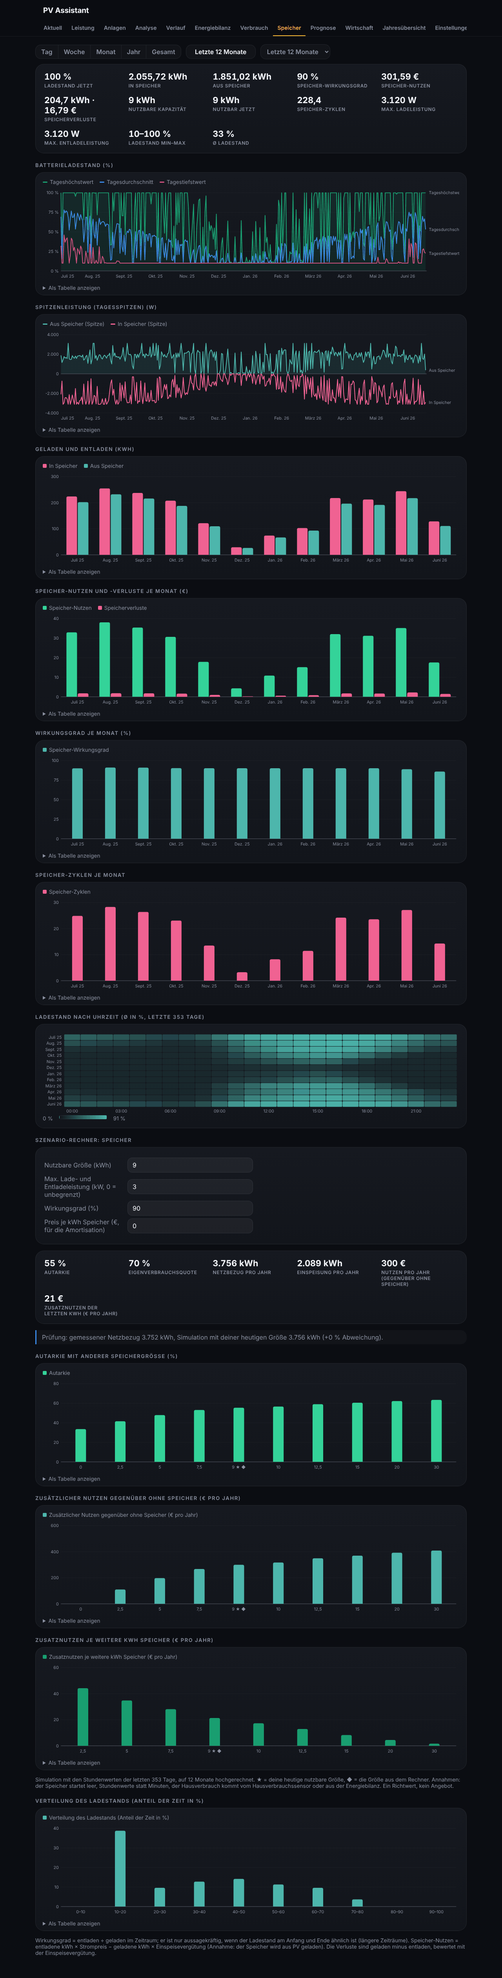
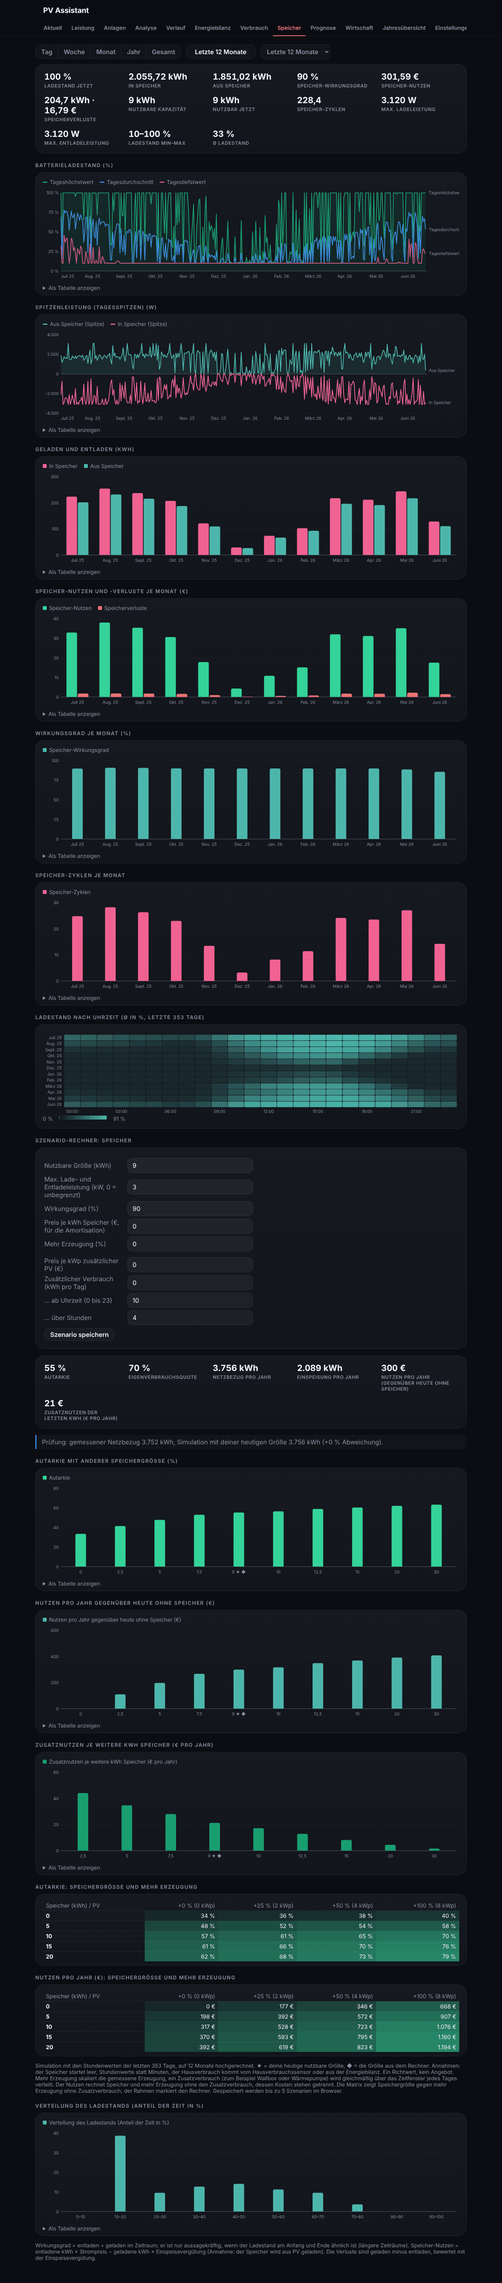
Extend the storage scenario calculator: more production, extra load, matrix and saved scenarios
Claude-Session: https://claude.ai/code/session_01TaJYM5KB2UjSXtUd6GEyfY

diff --git a/custom_components/pv_assistant/frontend/pv-assistant-tab-storage.js b/custom_components/pv_assistant/frontend/pv-assistant-tab-storage.js
@@ -7,6 +7,12 @@ export function init(ctx) {
   ({ esc, mergedRows, lineChart, barChart, categoryBarChart, localKeyFn, heatmap, simulateStorage } = ctx);
 }
 
+// the fields of the scenario calculator: [input id, key in the state]
+const SIM_FIELDS = [["simcap", "cap"], ["simpow", "power"], ["simeff", "eff"], ["simprice", "price"], ["simpv", "pv"], ["simpvprice", "pvprice"],
+  ["simload", "load"], ["simfrom", "from"], ["simlen", "len"]];
+const SIM_DEFAULTS = { pv: 0, pvprice: 0, load: 0, from: 10, len: 4 };
+const MAX_SAVED = 5;
+
 export class StoragePart {
   _buildStorage() {
     const { P, E, G } = this._keys();
@@ -24,26 +30,37 @@ export class StoragePart {
       <div id="socycbox"><h3 class="ch">${esc(this._t("stoCycChart"))}</h3><div class="chart" id="socyc"></div></div>` : ""}${G.soc.length ? `
       <div id="soheatbox"><h3 class="ch" id="soheath">${esc(this._t("stoHeat"))}</h3><div class="chart" id="soheat"></div></div>` : ""}${has(E) && E.prod.length ? `
       <div id="sosimbox"><h3 class="ch">${esc(this._t("simTitle"))}</h3>
-      <div class="setcard" id="simform"><div class="setrow"><label for="simcap">${esc(this._t("simCap"))}</label><input type="number" id="simcap" min="0" step="0.5"></div>
+      <div class="setcard" id="simform">
+        <div class="setrow"><label for="simcap">${esc(this._t("simCap"))}</label><input type="number" id="simcap" min="0" step="0.5"></div>
         <div class="setrow"><label for="simpow">${esc(this._t("simPower"))}</label><input type="number" id="simpow" min="0" step="0.5"></div>
         <div class="setrow"><label for="simeff">${esc(this._t("simEff"))}</label><input type="number" id="simeff" min="50" max="100" step="1"></div>
-        <div class="setrow"><label for="simprice">${esc(this._t("simPrice"))}</label><input type="number" id="simprice" min="0" step="10"></div></div>
+        <div class="setrow"><label for="simprice">${esc(this._t("simPrice"))}</label><input type="number" id="simprice" min="0" step="10"></div>
+        <div class="setrow"><label for="simpv">${esc(this._t("simPv"))}</label><input type="number" id="simpv" min="0" step="5"><span class="hint" id="simpvhint"></span></div>
+        <div class="setrow"><label for="simpvprice">${esc(this._t("simPvPrice"))}</label><input type="number" id="simpvprice" min="0" step="50"></div>
+        <div class="setrow"><label for="simload">${esc(this._t("simLoad"))}</label><input type="number" id="simload" min="0" step="1"></div>
+        <div class="setrow"><label for="simfrom">${esc(this._t("simFrom"))}</label><input type="number" id="simfrom" min="0" max="23" step="1"></div>
+        <div class="setrow"><label for="simlen">${esc(this._t("simLen"))}</label><input type="number" id="simlen" min="1" max="24" step="1"></div>
+        <div class="setbar"><button class="setbtn" id="simsave">${esc(this._t("simSave"))}</button></div></div>
       <div class="tiles" id="simtiles"></div><ul class="hints" id="simhints"></ul>
       <h3 class="ch">${esc(this._t("stoSimAut"))}</h3><div class="chart" id="sosimaut"></div>
       <div id="sosimbenbox"><h3 class="ch">${esc(this._t("stoSimBen"))}</h3><div class="chart" id="sosimben"></div>
       <h3 class="ch">${esc(this._t("stoSimMarg"))}</h3><div class="chart" id="sosimmarg"></div></div>
+      <h3 class="ch">${esc(this._t("simMatrixAut"))}</h3><div class="chart" id="simmat1"></div>
+      <div id="simmat2box"><h3 class="ch">${esc(this._t("simMatrixBen"))}</h3><div class="chart" id="simmat2"></div></div>
+      <div id="simsavedbox"><h3 class="ch">${esc(this._t("simSaved"))}</h3><div class="chart" id="simsaved"></div></div>
       <p class="note" id="sosimnote"></p></div>` : ""}${G.soc.length ? `
       <h3 class="ch">${esc(this._t("stoSocHist"))}</h3><div class="chart" id="sosochist"></div>` : ""}
       <p class="note" id="sonote"></p>`;
     const ranges = box.querySelector("#sranges");
     this._picker(ranges, () => this._srange, (v) => { this._srange = v; this._loadStorage(); });
-    for (const id of ["simcap", "simpow", "simeff", "simprice"]) {
+    for (const [id] of SIM_FIELDS) {
       box.querySelector(`#${id}`)?.addEventListener("input", () => {
-        this._simState = { cap: this._simNum("simcap"), power: this._simNum("simpow"), eff: this._simNum("simeff"), price: this._simNum("simprice") };
+        this._simState = Object.fromEntries(SIM_FIELDS.map(([fid, key]) => [key, this._simNum(fid)]));
         try { localStorage.setItem("pv_assistant_sim", JSON.stringify(this._simState)); } catch (e) { /* storage unavailable */ }
         this._drawStorageSim();
       });
     }
+    box.querySelector("#simsave")?.addEventListener("click", () => this._simSave());
   }
 
   async _loadStorage() {
@@ -142,22 +159,27 @@ export class StoragePart {
     const cap = gen.storage_capacity_kwh > 0 ? gen.storage_capacity_kwh : 0, minSoc = gen.battery_min_soc > 0 ? Math.min(gen.battery_min_soc, 100) : 0;
     const tIn = [...sIn.values()].reduce((a, v) => a + v, 0), tOut = [...sOut.values()].reduce((a, v) => a + v, 0);
     const numOf = (id) => { const v = parseFloat(this._hass.states[id]?.state); return Number.isNaN(v) ? null : v; };
+    const strs = this._cfg.settings?.strings || {};
+    const { P } = this._keys();
+    const peakWp = P.prod.reduce((a, id) => a + (strs[id]?.peak > 0 ? strs[id].peak : 0), 0);
     this._ssim = {
-      hours, nDays, usableNow: cap * (1 - minSoc / 100),
+      hours, hod: keys.map((ts) => key(ts).hour), nDays, usableNow: cap * (1 - minSoc / 100),
       effMeasured: tIn > 20 && tOut > 0 ? Math.min(0.98, Math.max(0.7, tOut / tIn)) : 0.9,
       // the hourly maxima are the limits that fit a model that works on whole hours
       powerMeasured: Math.ceil(Math.max(0, ...sIn.values(), ...sOut.values()) * 10) / 10,
       measuredImp: G.impE.length ? [...imp.values()].reduce((a, v) => a + v, 0) : null,
       pImp: (G.priceImp && numOf(G.priceImp)) || gen.price_import || null, pFeed: (G.priceFeed && numOf(G.priceFeed)) || gen.price_feed_in || null,
+      peakKwp: peakWp / 1000,
     };
     if (!this._simState) {
       let saved = null;
       try { saved = JSON.parse(localStorage.getItem("pv_assistant_sim") || "null"); } catch (e) { saved = null; }
       const c = this._ssim;
-      this._simState = saved && Number.isFinite(saved.cap) ? saved : { cap: Math.round((c.usableNow || 10) * 10) / 10, power: c.powerMeasured, eff: Math.round(c.effMeasured * 100), price: 0 };
-      for (const [id, v] of [["simcap", this._simState.cap], ["simpow", this._simState.power], ["simeff", this._simState.eff], ["simprice", this._simState.price]]) {
+      const fresh = { cap: Math.round((c.usableNow || 10) * 10) / 10, power: c.powerMeasured, eff: Math.round(c.effMeasured * 100), price: 0 };
+      this._simState = { ...SIM_DEFAULTS, ...(saved && Number.isFinite(saved.cap) ? saved : fresh) };
+      for (const [id, key2] of SIM_FIELDS) {
         const input = root.getElementById(id);
-        if (input) input.value = Number.isFinite(v) ? String(v) : "";
+        if (input) input.value = Number.isFinite(this._simState[key2]) ? String(this._simState[key2]) : "";
       }
     }
     this._drawStorageSim();
@@ -168,33 +190,67 @@ export class StoragePart {
     return Number.isFinite(v) && v >= 0 ? v : 0;
   }
 
-  // results of the scenario with the values of the form: key figures, check against the measurement and the charts over the size
+  // the key figures of a scenario: more production, an extra load on top of the house consumption and a storage, on the hours of the range
+  _simMetrics(st) {
+    const c = this._ssim;
+    const { hours, hod, nDays, pImp, pFeed, peakKwp } = c;
+    const eff = Math.min(1, Math.max(0.5, (st.eff || 90) / 100)), power = st.power || 0;
+    const scale = nDays < 330 ? 365 / nDays : 1;
+    const pvF = 1 + (st.pv || 0) / 100;
+    const len = Math.min(24, Math.max(1, Math.round(st.len || 1))), from = Math.min(23, Math.max(0, Math.round(st.from || 0)));
+    const perHour = st.load > 0 ? st.load / len : 0;
+    const inWindow = (h) => ((h - from + 24) % 24) < len;
+    const build = (withExtra) => hours.map(([p, h], i) => [p * pvF, h + (withExtra && inWindow(hod[i]) ? perHour : 0)]);
+    const base = simulateStorage(hours, 0, eff, power); // today's plant without a storage: the reference
+    const noExtra = simulateStorage(build(false), st.cap, eff, power);
+    const withExtraHours = build(true);
+    const run = perHour > 0 ? simulateStorage(withExtraHours, st.cap, eff, power) : noExtra;
+    const load = withExtraHours.reduce((a, [, h]) => a + h, 0), produced = withExtraHours.reduce((a, [p]) => a + p, 0);
+    const extraTotal = perHour > 0 ? withExtraHours.reduce((a, [, h], i) => a + (h - hours[i][1]), 0) : 0;
+    const money = (r) => (pImp ? ((base.imp - r.imp) * pImp - (base.feed - r.feed) * (pFeed || 0)) * scale : null);
+    const investment = (st.price > 0 ? st.price * st.cap : 0) + (st.pvprice > 0 && peakKwp > 0 ? st.pvprice * peakKwp * (st.pv || 0) / 100 : 0);
+    const benefit = money(noExtra); // storage and more production, without the extra load
+    return {
+      autarky: load > 0 ? (1 - run.imp / load) * 100 : 0, self: produced > 0 ? ((produced - run.feed) / produced) * 100 : 0,
+      imp: run.imp * scale, feed: run.feed * scale, benefit, investment, payback: investment > 0 && benefit > 0 ? investment / benefit : null,
+      extraYear: extraTotal * scale,
+      extraPv: extraTotal > 0 ? Math.max(0, 1 - (run.imp - noExtra.imp) / extraTotal) * 100 : null,
+      extraCost: extraTotal > 0 && pImp ? ((run.imp - noExtra.imp) * pImp + (noExtra.feed - run.feed) * (pFeed || 0)) * scale : null,
+    };
+  }
+
+  _simSave() {
+    const st = this._simState;
+    if (!st || !this._ssim) return;
+    let saved = [];
+    try { saved = JSON.parse(localStorage.getItem("pv_assistant_sim_saved") || "[]"); } catch (e) { saved = []; }
+    saved = [...saved.filter((x) => JSON.stringify(x.st) !== JSON.stringify(st)), { st: { ...st } }].slice(-MAX_SAVED);
+    try { localStorage.setItem("pv_assistant_sim_saved", JSON.stringify(saved)); } catch (e) { /* storage unavailable */ }
+    this._drawStorageSim();
+  }
+
+  // results of the scenario with the values of the form: key figures, check against the measurement, the matrix, the saved scenarios
+  // and the charts over the size
   _drawStorageSim() {
     const c = this._ssim, root = this._root;
     if (!c || !root.getElementById("sosimbox")) return;
-    const st = this._simState || { cap: 0, power: 0, eff: 90, price: 0 };
+    const st = this._simState || { ...SIM_DEFAULTS, cap: 0, power: 0, eff: 90, price: 0 };
     const lang = this._hass.locale?.language || this._hass.language;
     const num = (v, dec = 1) => v.toLocaleString(lang, { maximumFractionDigits: dec });
     const tl = { summary: this._t("table"), time: "kWh" };
-    const { hours, nDays, usableNow, pImp, pFeed } = c;
-    const eff = Math.min(1, Math.max(0.5, (st.eff || 90) / 100)), power = st.power || 0;
-    const scale = nDays < 330 ? 365 / nDays : 1;
-    const load = hours.reduce((a, [, h]) => a + h, 0), produced = hours.reduce((a, [p]) => a + p, 0);
-    const run = (size) => simulateStorage(hours, size, eff, power);
-    const base = run(0);
-    const benefit = (r) => (pImp ? ((base.imp - r.imp) * pImp - (base.feed - r.feed) * (pFeed || 0)) * scale : null);
-    const sc = run(st.cap);
-    const tiles = [
-      [`${num(load > 0 ? (1 - sc.imp / load) * 100 : 0, 0)} %`, this._t("autarky")],
-      [`${num(produced > 0 ? ((produced - sc.feed) / produced) * 100 : 0, 0)} %`, this._t("selfShare")],
-      [`${num(sc.imp * scale, 0)} kWh`, this._t("simImp")], [`${num(sc.feed * scale, 0)} kWh`, this._t("simFeed")],
-    ];
-    const ben = benefit(sc);
-    if (ben != null) tiles.push([`${num(ben, 0)} €`, this._t("simBen")]);
-    if (ben != null && st.cap > 1) tiles.push([`${num(ben - benefit(run(st.cap - 1)), 0)} €`, this._t("simMarg")]);
-    if (st.price > 0 && st.cap > 0) {
-      tiles.push([`${num(st.price * st.cap, 0)} €`, this._t("simInvest")]);
-      tiles.push([ben > 0 ? this._t("simYears").replace("{y}", num((st.price * st.cap) / ben, 1)) : "–", this._t("simPayback")]);
+    const { hours, nDays, usableNow, pImp, peakKwp } = c;
+    const m = this._simMetrics(st);
+    const years = (v) => (v == null ? "–" : this._t("simYears").replace("{y}", num(v, 1)));
+    const hint = root.getElementById("simpvhint");
+    if (hint) hint.textContent = peakKwp > 0 && st.pv > 0 ? this._t("simPvKwp").replace("{k}", num((peakKwp * st.pv) / 100, 1)).replace("{p}", num(peakKwp, 1)) : "";
+    const tiles = [[`${num(m.autarky, 0)} %`, this._t("autarky")], [`${num(m.self, 0)} %`, this._t("selfShare")],
+      [`${num(m.imp, 0)} kWh`, this._t("simImp")], [`${num(m.feed, 0)} kWh`, this._t("simFeed")]];
+    if (m.benefit != null) tiles.push([`${num(m.benefit, 0)} €`, this._t("simBen")]);
+    if (m.benefit != null && st.cap > 1) tiles.push([`${num(m.benefit - this._simMetrics({ ...st, cap: st.cap - 1, load: 0 }).benefit, 0)} €`, this._t("simMarg")]);
+    if (m.investment > 0) tiles.push([`${num(m.investment, 0)} €`, this._t("simInvest")], [years(m.payback), this._t("simPayback")]);
+    if (m.extraYear > 0) {
+      tiles.push([`${num(m.extraYear, 0)} kWh`, this._t("simExtraYear")], [`${num(m.extraPv, 0)} %`, this._t("simExtraPv")]);
+      if (m.extraCost != null) tiles.push([`${num(m.extraCost, 0)} €`, this._t("simExtraCost")], [`${num(m.extraCost / m.extraYear, 3)} €`, this._t("simExtraKwh")]);
     }
     root.getElementById("simtiles").innerHTML = tiles.map(([v, l]) => `<div class="tile"><b>${esc(v)}</b><span>${esc(l)}</span></div>`).join("");
     // check: the same model with the real storage against the measured grid import
@@ -205,20 +261,21 @@ export class StoragePart {
       hints.push(this._t("simCalib").replace("{m}", num(c.measuredImp, 0)).replace("{s}", num(real.imp, 0)).replace("{d}", `${dev > 0 ? "+" : ""}${num(dev, 0)}`) + (Math.abs(dev) > 15 ? ` ${this._t("simCalibWarn")}` : ""));
     }
     root.getElementById("simhints").innerHTML = hints.map((h) => `<li class="info">${esc(h)}</li>`).join("");
-    // over the size: the usual steps plus the real and the scenario size
+    // over the size: the usual steps plus the real and the scenario size (more production and the extra load come along)
     const steps = [0, 2.5, 5, 7.5, 10, 12.5, 15, 20, 30];
     const real = usableNow > 0 ? Math.round(usableNow * 10) / 10 : null, mine = st.cap > 0 ? Math.round(st.cap * 10) / 10 : null;
     const sizes = [...new Set([...steps, ...(real ? [real] : []), ...(mine ? [mine] : [])])].filter((v) => v <= Math.max(30, (real || 0) * 2, (mine || 0) * 1.5)).sort((a, b) => a - b);
-    const results = sizes.map((v) => run(v));
+    const at = (size, extra = {}) => this._simMetrics({ ...st, cap: size, ...extra });
+    const results = sizes.map((v) => at(v));
     const cats = sizes.map((v) => `${num(v, 1)}${v === real ? " ★" : ""}${v === mine ? " ◆" : ""}`);
     categoryBarChart(root.getElementById("sosimaut"), {
-      categories: cats, series: [{ name: this._t("autarky"), color: "--pva-pos", values: results.map((r) => (load > 0 ? (1 - r.imp / load) * 100 : null)) }],
+      categories: cats, series: [{ name: this._t("autarky"), color: "--pva-pos", values: results.map((r) => r.autarky) }],
       fmtValue: (v, axis) => `${num(v, 0)}${axis ? "" : " %"}`, empty: this._t("noData"), tableLabels: tl, label: this._t("stoSimAut"),
     });
     const benBox = root.getElementById("sosimbenbox");
     benBox.hidden = !pImp;
     if (pImp) {
-      const bens = results.map(benefit);
+      const bens = results.map((r) => r.benefit);
       categoryBarChart(root.getElementById("sosimben"), {
         categories: cats, series: [{ name: this._t("stoSimBen"), color: "--pva-bout", values: bens }],
         fmtValue: (v, axis) => `${num(v, 0)}${axis ? "" : " €"}`, empty: this._t("noData"), tableLabels: tl, label: this._t("stoSimBen"),
@@ -229,7 +286,51 @@ export class StoragePart {
         fmtValue: (v, axis) => `${num(v, axis ? 0 : 1)}${axis ? "" : " €"}`, empty: this._t("noData"), tableLabels: tl, label: this._t("stoSimMarg"),
       });
     }
-    root.getElementById("sosimnote").textContent = this._t("stoSimNote").replace("{n}", String(nDays));
+    // matrix: storage size against more production (without the extra load), the cell of the calculator is framed
+    const rowsKwh = [0, 5, 10, 15, 20], cols = [0, 25, 50, 100];
+    const matrix = (field, fmt) => {
+      const grid = rowsKwh.map((r) => cols.map((cpv) => at(r, { pv: cpv, load: 0 })[field]));
+      const flat = grid.flat().filter((v) => v != null), lo = Math.min(...flat), hi = Math.max(...flat);
+      const head = `<tr><th>${esc(this._t("simMatrixRows"))}</th>${cols.map((cpv) => `<th>+${cpv} %${peakKwp > 0 ? ` (${num((peakKwp * cpv) / 100, 1)} kWp)` : ""}</th>`).join("")}</tr>`;
+      const body = grid.map((row, ri) => `<tr><th>${esc(num(rowsKwh[ri], 1))}</th>${row.map((v, ci) => {
+        const level = hi > lo ? (v - lo) / (hi - lo) : 0, mark = rowsKwh[ri] === st.cap && cols[ci] === st.pv;
+        return `<td style="background:color-mix(in srgb, var(--pva-pos) ${Math.round(8 + level * 52)}%, transparent)${mark ? ";outline:2px solid var(--g-accent)" : ""}">${esc(fmt(v))}</td>`;
+      }).join("")}</tr>`).join("");
+      return `<table class="dtable"><thead>${head}</thead><tbody>${body}</tbody></table>`;
+    };
+    root.getElementById("simmat1").innerHTML = matrix("autarky", (v) => `${num(v, 0)} %`);
+    root.getElementById("simmat2box").hidden = !pImp;
+    if (pImp) root.getElementById("simmat2").innerHTML = matrix("benefit", (v) => `${num(v, 0)} €`);
+    // saved scenarios side by side
+    let saved = [];
+    try { saved = JSON.parse(localStorage.getItem("pv_assistant_sim_saved") || "[]"); } catch (e) { saved = []; }
+    const savedBox = root.getElementById("simsavedbox");
+    savedBox.hidden = !saved.length;
+    if (saved.length) {
+      const name = (x) => `${num(x.cap, 1)} kWh${x.power > 0 ? ` · ${num(x.power, 1)} kW` : ""}${x.pv > 0 ? ` · +${num(x.pv, 0)} %` : ""}${x.load > 0 ? ` · +${num(x.load, 0)} kWh/${this._t("simPerDay")}` : ""}`;
+      const head = ["simName", "autarky", "selfShare", "simImp", "simFeed", "simBen", "simInvest", "simPayback"].map((k) => `<th>${esc(this._t(k))}</th>`).join("") + "<th></th>";
+      const rows = saved.map((x, i) => {
+        const r = this._simMetrics({ ...SIM_DEFAULTS, ...x.st });
+        return `<tr><th>${esc(name({ ...SIM_DEFAULTS, ...x.st }))}</th><td>${num(r.autarky, 0)} %</td><td>${num(r.self, 0)} %</td><td>${num(r.imp, 0)}</td><td>${num(r.feed, 0)}</td>`
+          + `<td>${r.benefit == null ? "–" : `${num(r.benefit, 0)} €`}</td><td>${r.investment > 0 ? `${num(r.investment, 0)} €` : "–"}</td><td>${esc(years(r.payback))}</td>`
+          + `<td><button class="setbtn" data-load="${i}">${esc(this._t("simLoadBtn"))}</button> <button class="setbtn" data-del="${i}">${esc(this._t("simDel"))}</button></td></tr>`;
+      }).join("");
+      const holder = root.getElementById("simsaved");
+      holder.innerHTML = `<table class="dtable"><thead><tr>${head}</tr></thead><tbody>${rows}</tbody></table>`;
+      holder.querySelectorAll("button").forEach((b) => b.addEventListener("click", () => {
+        const idx = Number(b.dataset.load ?? b.dataset.del);
+        if (b.dataset.del != null) {
+          saved.splice(idx, 1);
+          try { localStorage.setItem("pv_assistant_sim_saved", JSON.stringify(saved)); } catch (e) { /* storage unavailable */ }
+        } else {
+          this._simState = { ...SIM_DEFAULTS, ...saved[idx].st };
+          for (const [id, key2] of SIM_FIELDS) { const input = root.getElementById(id); if (input) input.value = String(this._simState[key2]); }
+          try { localStorage.setItem("pv_assistant_sim", JSON.stringify(this._simState)); } catch (e) { /* storage unavailable */ }
+        }
+        this._drawStorageSim();
+      }));
+    }
+    root.getElementById("sosimnote").textContent = `${this._t("stoSimNote").replace("{n}", String(nDays))} ${this._t("simNote2")}`;
   }
 
   _drawStorage() {

diff --git a/custom_components/pv_assistant/frontend/pv-assistant-texts.js b/custom_components/pv_assistant/frontend/pv-assistant-texts.js
@@ -114,7 +114,7 @@ export const T = {
     pkLast7: "Letzte 7 Tage", pkLast30: "Letzte 30 Tage", pkLast90: "Letzte 90 Tage", pkLast12m: "Letzte 12 Monate", pkLast: "Letzte {n} Tage", pkSince: "seit",
     pkNow: "Zum aktuellen Zeitraum springen", pkDate: "Datum wählen", pkThisWeek: "Diese Woche", pkThisMonth: "Dieser Monat", pkThisYear: "Dieses Jahr",
     stoHeat: "Ladestand nach Uhrzeit (Ø in %)", stoHeatDays: "Ladestand nach Uhrzeit (Ø in %, letzte {n} Tage)", stoCycChart: "Speicher-Zyklen je Monat",
-    stoSimAut: "Autarkie mit anderer Speichergröße (%)", stoSimBen: "Zusätzlicher Nutzen gegenüber ohne Speicher (€ pro Jahr)",
+    stoSimAut: "Autarkie mit anderer Speichergröße (%)", stoSimBen: "Nutzen pro Jahr gegenüber heute ohne Speicher (€)",
     stoSimNote: "Simulation mit den Stundenwerten der letzten {n} Tage, auf 12 Monate hochgerechnet. ★ = deine heutige nutzbare Größe, ◆ = die Größe aus dem Rechner. Annahmen: der Speicher startet leer, Stundenwerte statt Minuten, der Hausverbrauch kommt vom Hausverbrauchssensor oder aus der Energiebilanz. Ein Richtwert, kein Angebot.",
     // consumption tab
     consumptionTab: "Verbrauch", conProfile: "Tagesverlauf: Werktag und Wochenende (Ø kWh je Stunde)", conHeat: "Verbrauch nach Uhrzeit (kWh je Stunde)",
@@ -133,9 +133,14 @@ export const T = {
     repMonth: "Monat", repProd: "Erzeugung (kWh)", repFeed: "Einspeisung (kWh)", repImport: "Netzbezug (kWh)", repHouse: "Verbrauch (kWh)", repStoreIn: "In Speicher (kWh)",
     repStoreOut: "Aus Speicher (kWh)", repDirect: "Direkt verbraucht (kWh)", repSelf: "Eigenverbrauchsquote (%)", repAutarky: "Autarkie (%)", repSavings: "Ersparnis", repRevenue: "Einspeiseerlös", repBenefit: "Nutzen",
     simTitle: "Szenario-Rechner: Speicher", simCap: "Nutzbare Größe (kWh)", simPower: "Max. Lade- und Entladeleistung (kW, 0 = unbegrenzt)", simEff: "Wirkungsgrad (%)", simPrice: "Preis je kWh Speicher (€, für die Amortisation)",
-    simImp: "Netzbezug pro Jahr", simFeed: "Einspeisung pro Jahr", simBen: "Nutzen pro Jahr (gegenüber ohne Speicher)", simMarg: "Zusatznutzen der letzten kWh (€ pro Jahr)", simInvest: "Investition", simPayback: "Amortisation", simYears: "{y} Jahre",
+    simImp: "Netzbezug pro Jahr", simFeed: "Einspeisung pro Jahr", simBen: "Nutzen pro Jahr (gegenüber heute ohne Speicher)", simMarg: "Zusatznutzen der letzten kWh (€ pro Jahr)", simInvest: "Investition", simPayback: "Amortisation", simYears: "{y} Jahre",
     stoSimMarg: "Zusatznutzen je weitere kWh Speicher (€ pro Jahr)",
     simCalib: "Prüfung: gemessener Netzbezug {m} kWh, Simulation mit deiner heutigen Größe {s} kWh ({d} % Abweichung).", simCalibWarn: "Die Abweichung ist größer als 15 %; die Zahlen sind dann nur grobe Richtwerte (Leistungsspitzen, Laden aus dem Netz oder ein anderes Verhalten des Speichers).",
+    simPv: "Mehr Erzeugung (%)", simPvPrice: "Preis je kWp zusätzlicher PV (€)", simLoad: "Zusätzlicher Verbrauch (kWh pro Tag)", simFrom: "… ab Uhrzeit (0 bis 23)", simLen: "… über Stunden",
+    simPvKwp: "≈ +{k} kWp bei {p} kWp heute", simSave: "Szenario speichern", simSaved: "Gespeicherte Szenarien", simName: "Szenario", simLoadBtn: "Laden", simDel: "Löschen", simPerDay: "Tag",
+    simExtraYear: "Zusatzverbrauch pro Jahr", simExtraPv: "davon aus PV und Speicher gedeckt", simExtraCost: "Kosten des Zusatzverbrauchs pro Jahr", simExtraKwh: "Kosten je kWh des Zusatzverbrauchs",
+    simMatrixAut: "Autarkie: Speichergröße und mehr Erzeugung", simMatrixBen: "Nutzen pro Jahr (€): Speichergröße und mehr Erzeugung", simMatrixRows: "Speicher (kWh) / PV",
+    simNote2: "Mehr Erzeugung skaliert die gemessene Erzeugung, ein Zusatzverbrauch (zum Beispiel Wallbox oder Wärmepumpe) wird gleichmäßig über das Zeitfenster jedes Tages verteilt. Der Nutzen rechnet Speicher und mehr Erzeugung ohne den Zusatzverbrauch, dessen Kosten stehen getrennt. Die Matrix zeigt Speichergröße gegen mehr Erzeugung ohne Zusatzverbrauch; der Rahmen markiert den Rechner. Gespeichert werden bis zu 5 Szenarien im Browser.",
   },
   en: {
     title: "PV Assistant", energy: "Energy sensors (kWh)", power: "Power sensors (W)",
@@ -251,7 +256,7 @@ export const T = {
     pkLast7: "Last 7 days", pkLast30: "Last 30 days", pkLast90: "Last 90 days", pkLast12m: "Last 12 months", pkLast: "Last {n} days", pkSince: "since",
     pkNow: "Jump to the current period", pkDate: "Choose a date", pkThisWeek: "This week", pkThisMonth: "This month", pkThisYear: "This year",
     stoHeat: "Level by time of day (avg. in %)", stoHeatDays: "Level by time of day (avg. in %, last {n} days)", stoCycChart: "Storage cycles per month",
-    stoSimAut: "Self-sufficiency with another storage size (%)", stoSimBen: "Extra benefit compared with no storage (€ per year)",
+    stoSimAut: "Self-sufficiency with another storage size (%)", stoSimBen: "Benefit per year compared with today without a storage (€)",
     stoSimNote: "Simulation with the hourly values of the last {n} days, scaled to 12 months. ★ = your current usable size, ◆ = the size from the calculator. Assumptions: the storage starts empty, hours instead of minutes, the consumption comes from the house consumption sensor or the energy balance. A guide value, not an offer.",
     // consumption tab
     consumptionTab: "Consumption", conProfile: "Course of the day: working days and weekends (avg. kWh per hour)", conHeat: "Consumption by time of day (kWh per hour)",
@@ -270,8 +275,13 @@ export const T = {
     repMonth: "Month", repProd: "Production (kWh)", repFeed: "Feed-in (kWh)", repImport: "Grid import (kWh)", repHouse: "Consumption (kWh)", repStoreIn: "Into storage (kWh)",
     repStoreOut: "From storage (kWh)", repDirect: "Used directly (kWh)", repSelf: "Self-consumption rate (%)", repAutarky: "Self-sufficiency (%)", repSavings: "Savings", repRevenue: "Feed-in revenue", repBenefit: "Benefit",
     simTitle: "Scenario calculator: storage", simCap: "Usable size (kWh)", simPower: "Max. charge and discharge power (kW, 0 = unlimited)", simEff: "Efficiency (%)", simPrice: "Price per kWh of storage (€, for the payback)",
-    simImp: "Grid import per year", simFeed: "Feed-in per year", simBen: "Benefit per year (compared with no storage)", simMarg: "Extra benefit of the last kWh (€ per year)", simInvest: "Investment", simPayback: "Payback", simYears: "{y} years",
+    simImp: "Grid import per year", simFeed: "Feed-in per year", simBen: "Benefit per year (compared with today without a storage)", simMarg: "Extra benefit of the last kWh (€ per year)", simInvest: "Investment", simPayback: "Payback", simYears: "{y} years",
     stoSimMarg: "Extra benefit per further kWh of storage (€ per year)",
     simCalib: "Check: measured grid import {m} kWh, simulation with your current size {s} kWh ({d} % deviation).", simCalibWarn: "The deviation is larger than 15 %; the numbers are then only rough guide values (power peaks, charging from the grid or a different behavior of the storage).",
+    simPv: "More production (%)", simPvPrice: "Price per kWp of extra PV (€)", simLoad: "Extra consumption (kWh per day)", simFrom: "… from hour (0 to 23)", simLen: "… over hours",
+    simPvKwp: "≈ +{k} kWp on {p} kWp today", simSave: "Save the scenario", simSaved: "Saved scenarios", simName: "Scenario", simLoadBtn: "Load", simDel: "Delete", simPerDay: "day",
+    simExtraYear: "Extra consumption per year", simExtraPv: "of it covered by PV and storage", simExtraCost: "Cost of the extra consumption per year", simExtraKwh: "Cost per kWh of the extra consumption",
+    simMatrixAut: "Self-sufficiency: storage size and more production", simMatrixBen: "Benefit per year (€): storage size and more production", simMatrixRows: "Storage (kWh) / PV",
+    simNote2: "More production scales the measured production, an extra consumption (for example a wallbox or a heat pump) is spread evenly over the time window of every day. The benefit counts storage and more production without the extra consumption, whose cost is shown separately. The matrix shows storage size against more production without the extra consumption; the frame marks the calculator. Up to 5 scenarios are saved in the browser.",
   },
 };

diff --git a/wiki/Panel-Tabs.md b/wiki/Panel-Tabs.md
@@ -83,7 +83,7 @@ Only visible with storage sensors or a battery level.
 - Key figures: level now, charged, discharged, efficiency, **storage benefit** and **storage losses** in kWh and € (with prices), cycles (with storage capacity), maximum charge and discharge power, level min–max, average level; a hint appears if the efficiency fell clearly over the months
 - Charts: level, storage power (from storage +, into storage −, per device), charged and discharged energy; in long ranges also benefit and losses per month in € and the efficiency per month; the distribution of the level (share of the time per 10 % band)
 - Cycles per month (long ranges) and the **level by time of day** as a heat map (when is the storage empty in the evening; one row per day or month)
-- **Scenario calculator** for the storage: enter the usable size, the maximum charge and discharge power, the efficiency and, for the payback, the price per kWh (the values are remembered in the browser). The panel shows self-sufficiency, self-consumption rate, grid import and feed-in per year, the benefit per year against no storage, the extra benefit of the last kWh, the investment and the payback, plus charts of self-sufficiency, benefit and the **extra benefit per further kWh** over the storage size (★ = your size, ◆ = the size in the calculator). It uses the hourly values of the last 30 days to 12 months scaled to a year and checks itself: with your current size it simulates the grid import and compares it with the measured one (a deviation over 15 % means rough guide values). Needs production and the house consumption (or grid import and feed-in) as energy sensors; a guide value, not an offer
+- **Scenario calculator** for the storage: enter the usable size, the maximum charge and discharge power, the efficiency and, for the payback, the price per kWh (the values are remembered in the browser). The panel shows self-sufficiency, self-consumption rate, grid import and feed-in per year, the benefit per year against no storage, the extra benefit of the last kWh, the investment and the payback, plus charts of self-sufficiency, benefit and the **extra benefit per further kWh** over the storage size (★ = your size, ◆ = the size in the calculator). It uses the hourly values of the last 30 days to 12 months scaled to a year and checks itself: with your current size it simulates the grid import and compares it with the measured one (a deviation over 15 % means rough guide values). Beyond the storage the calculator can also try **more production** (in percent, with the kWp it means and a price per kWp for the payback) and an **extra consumption** such as a wallbox or a heat pump (kWh per day over a time window of the day): it shows how much of it PV and storage cover and what it costs per kWh. A **matrix** shows self-sufficiency and benefit per year for storage size against more production, and up to 5 **scenarios can be saved** (in the browser) and compared side by side. Needs production and the house consumption (or grid import and feed-in) as energy sensors; a guide value, not an offer
 
 ### Forecast
 <a href="https://raw.githubusercontent.com/weskona/pv-assistant/main/docs/screenshots/en/09-forecast.png"><img src="https://raw.githubusercontent.com/weskona/pv-assistant/main/docs/screenshots/en/09-forecast.png" alt="Forecast" width="720"></a>
@@ -202,7 +202,7 @@ Nur sichtbar mit Speichersensoren oder Ladestand.
 - Kennzahlen: Ladestand jetzt, geladen, entladen, Wirkungsgrad, **Speicher-Nutzen** und **Speicherverluste** in kWh und € (mit Preisen), Zyklen (mit Speicherkapazität), maximale Lade- und Entladeleistung, Ladestand min–max, Ø Ladestand; ein Hinweis erscheint, wenn der Wirkungsgrad über die Monate deutlich gesunken ist
 - Diagramme: Ladestand, Speicherleistung (aus Speicher +, in Speicher −, je Gerät), geladene und entladene Energie; in langen Zeiträumen außerdem Nutzen und Verluste je Monat in € und der Wirkungsgrad je Monat; die Verteilung des Ladestands (Anteil der Zeit je 10-%-Stufe)
 - Zyklen je Monat (lange Zeiträume) und der **Ladestand nach Uhrzeit** als Heatmap (wann ist der Speicher abends leer; eine Zeile je Tag oder Monat)
-- **Szenario-Rechner** für den Speicher: nutzbare Größe, maximale Lade- und Entladeleistung, Wirkungsgrad und, für die Amortisation, der Preis je kWh eingeben (die Werte merkt sich der Browser). Das Panel zeigt Autarkie, Eigenverbrauchsquote, Netzbezug und Einspeisung pro Jahr, den Nutzen pro Jahr gegenüber ohne Speicher, den Zusatznutzen der letzten kWh, die Investition und die Amortisation, dazu Diagramme von Autarkie, Nutzen und dem **Zusatznutzen je weitere kWh** über der Speichergröße (★ = deine Größe, ◆ = die Größe im Rechner). Gerechnet wird mit den Stundenwerten der letzten 30 Tage bis 12 Monate, auf ein Jahr hochgerechnet, mit eingebauter Prüfung: Mit deiner heutigen Größe wird der Netzbezug simuliert und mit dem gemessenen verglichen (über 15 % Abweichung bedeuten grobe Richtwerte). Braucht Erzeugung und Hausverbrauch (oder Netzbezug und Einspeisung) als Energiesensoren; ein Richtwert, kein Angebot
+- **Szenario-Rechner** für den Speicher: nutzbare Größe, maximale Lade- und Entladeleistung, Wirkungsgrad und, für die Amortisation, der Preis je kWh eingeben (die Werte merkt sich der Browser). Das Panel zeigt Autarkie, Eigenverbrauchsquote, Netzbezug und Einspeisung pro Jahr, den Nutzen pro Jahr gegenüber ohne Speicher, den Zusatznutzen der letzten kWh, die Investition und die Amortisation, dazu Diagramme von Autarkie, Nutzen und dem **Zusatznutzen je weitere kWh** über der Speichergröße (★ = deine Größe, ◆ = die Größe im Rechner). Gerechnet wird mit den Stundenwerten der letzten 30 Tage bis 12 Monate, auf ein Jahr hochgerechnet, mit eingebauter Prüfung: Mit deiner heutigen Größe wird der Netzbezug simuliert und mit dem gemessenen verglichen (über 15 % Abweichung bedeuten grobe Richtwerte). Neben dem Speicher kann der Rechner auch **mehr Erzeugung** (in Prozent, mit den kWp, die das bedeutet, und einem Preis je kWp für die Amortisation) und einen **Zusatzverbrauch** wie Wallbox oder Wärmepumpe (kWh pro Tag über ein Zeitfenster des Tages) durchspielen: Er zeigt, wie viel davon PV und Speicher decken und was es je kWh kostet. Eine **Matrix** zeigt Autarkie und Nutzen pro Jahr für Speichergröße gegen mehr Erzeugung, und bis zu 5 **Szenarien lassen sich speichern** (im Browser) und nebeneinander vergleichen. Braucht Erzeugung und Hausverbrauch (oder Netzbezug und Einspeisung) als Energiesensoren; ein Richtwert, kein Angebot
 
 ### Prognose
 <a href="https://raw.githubusercontent.com/weskona/pv-assistant/main/docs/screenshots/de/09-forecast.png"><img src="https://raw.githubusercontent.com/weskona/pv-assistant/main/docs/screenshots/de/09-forecast.png" alt="Prognose" width="720"></a>
